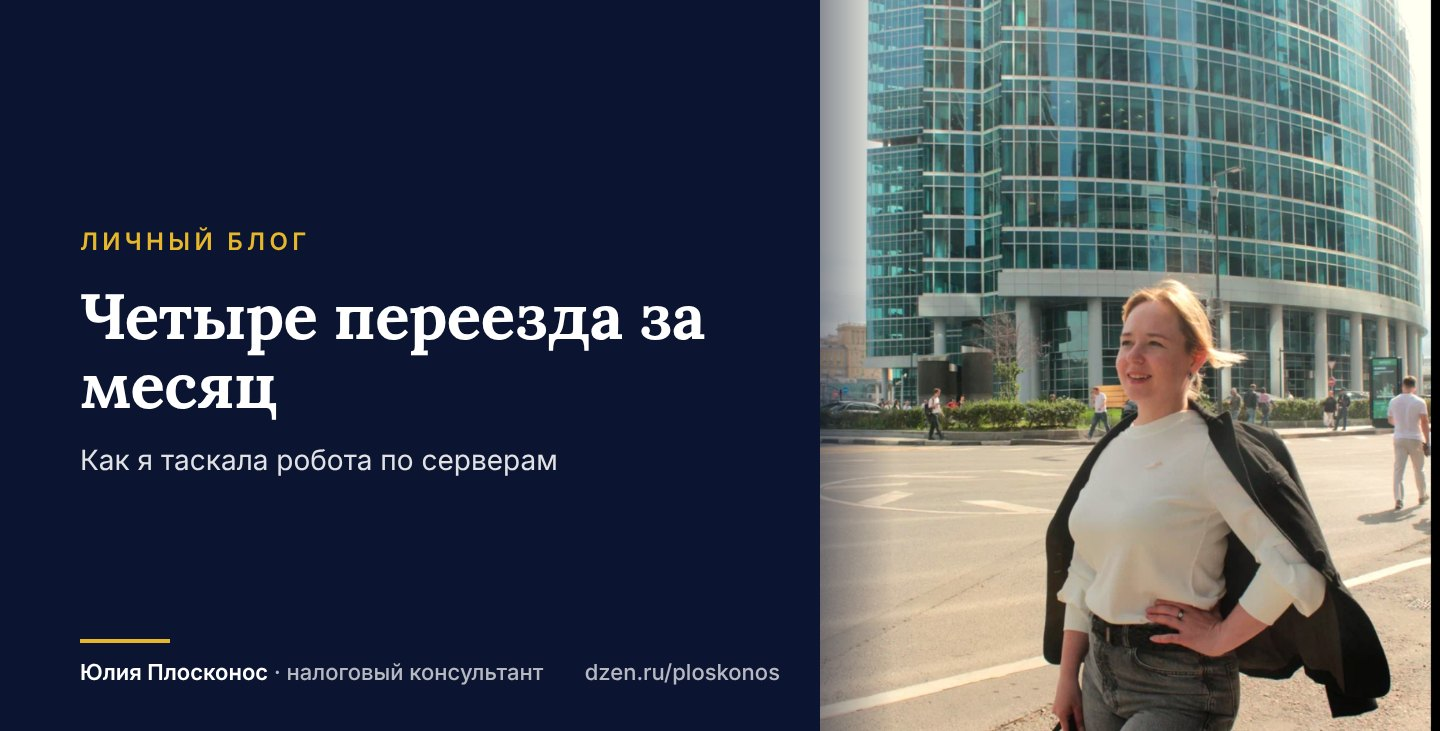
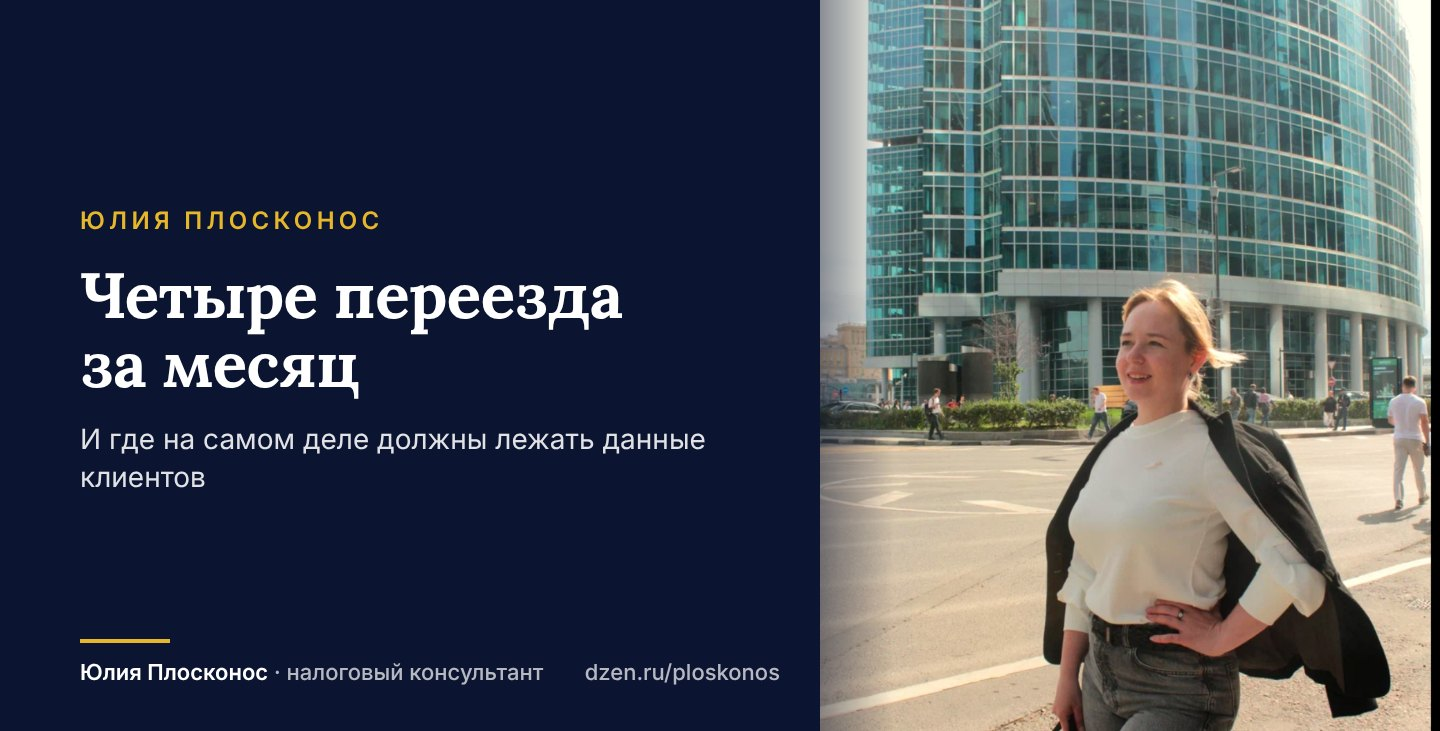
Dzen: №1, 2, 3, 22, 18 — глубже, новые заголовки и обложки
Claude-Session: https://claude.ai/code/session_013Qm2mbBWBWRNQADMDb9gwE

Changed region(s): [[0.0312, 0.2709, 0.5, 0.6621]]

diff --git a/content/dzen/2026-11-lichnoe.md b/content/dzen/2026-11-lichnoe.md
@@ -6,51 +6,94 @@
 
 ---
 
-## 1. Четыре переезда за месяц. Как я таскала робота по серверам
+## 1. Мой робот переехал четыре раза за месяц. И я наконец поняла, где на самом деле должны лежать данные клиентов
 
-В октябре мой робот переехал четыре раза. Амвера, потом Яндекс Облако, потом DigitalOcean, потом Таймвеб в Москве. Если вы думаете, что бухгалтер в такой ситуации спокойно пьёт кофе — нет.
+Амвера. Яндекс Облако. DigitalOcean. Таймвеб в Москве. Четыре сервера за один октябрь. Если вы думаете, что бухгалтер в такой ситуации спокойно пьёт кофе — нет. Я пила кофе нервно.
 
-Сначала всё жило на Амвере. Потом я решила, что пора по-взрослому: разделить рабочую и тестовую версии, поднять всё в Яндекс Облаке. Поднять не получилось — облако легло, доступ пропал. Временно уехали на DigitalOcean. Работало. Но это зарубежный сервер, а у меня в голове всё время сидел вопрос: где лежат данные и что я скажу клиенту, если он спросит.
+Начиналось всё прилично. Робот жил на Амвере, работал, никого не трогал. Потом я решила: пора по-взрослому. Разделить рабочую и тестовую версии, чтобы эксперименты не ломали то, чем уже пользуются. Переезжаем в Яндекс Облако.
 
-Плюс VPN. Робот, который работает только через VPN, — это не робот для бухгалтерии, это квест.
+Переехать не получилось. Облако легло, доступ пропал, а у меня в голове одна мысль: «А если бы там уже были клиенты?»
+
+Временно уехали на DigitalOcean. Работало. Но это зарубежный сервер, и каждый раз, когда я открывала панель, я думала: что я скажу клиенту, если он спросит, где лежат его данные? «Где-то в Европе, наверное»? Для бухгалтера это не ответ.
+
+Плюс VPN. Робот, который работает только через VPN, — это не робот для бухгалтерии. Это квест для очень терпеливых.
 
 Итог — Таймвеб, Москва. Без VPN, обновления сами приходят с GitHub, копия кода всегда под рукой.
 
-Что я из этого вынесла:
-- облако — не «где дешевле», а «где спокойнее отвечать на вопрос клиента»;
-- переезд — это не про перенос файлов, а про то, чтобы ничего не потерять: ни данные, ни историю, ни нервы;
-- рабочую версию не трогать, пока тестовая не прошла весь цикл. Это правило я теперь повторяю как мантру.
+Что я вынесла из этого месяца — и это пригодится не только тем, кто пишет роботов:
 
-Робот помучился со мной, я — с ним. Пока ничья.
+1. Облако выбирают не по принципу «где дешевле», а по принципу «где спокойнее отвечать на вопрос клиента». Это касается и вашей 1С: вы знаете, где физически лежит ваша база?
 
+2. Переезд — это не перенос файлов. Это проверка, что ничего не потерялось: ни данные, ни история, ни настройки. Как при смене бухгалтера: передать базу — полдела, важно передать то, что в голове.
+
+3. Рабочую версию не трогать, пока тестовая не прошла весь цикл. Я теперь повторяю это как мантру. В бухгалтерии то же самое: сначала проверили на копии базы, потом провели в рабочей.
+
+Робот помучился со мной, я — с ним. Пока ничья. Но переезжать я больше не собираюсь.
+
+А вы знаете, где хранится база 1С вашей компании? Честно?
+
+Подписывайтесь — здесь я пишу о работе, о роботе и о том, как вставать, когда всё падает.
 ---
 
-## 2. Зачем бухгалтеру курсы программирования 1С
+## 2. Бухгалтер, который пишет код. Зачем я пошла учиться программированию 1С
 
-Я пошла учиться программированию в 1С. Да, сама. Да, при том что у меня бухгалтерская практика, клиенты и робот, который требует внимания каждый день.
+Да, сама. Да, при том что у меня бухгалтерская практика, клиенты и робот, который требует внимания каждый день. И нет, я не собираюсь менять профессию.
 
 Меня спрашивают: зачем? Есть же программисты.
 
-Потому что я устала переводить с бухгалтерского на программистский. Когда я говорю «аванс без счёта-фактуры», программист слышит «какая-то запись в таблице». Когда я говорю «перепроведи доп. расходы», он спрашивает «а это что?». И каждый такой разговор — потерянный день.
+Есть. И я с ними работаю. Но я устала переводить с бухгалтерского на программистский.
 
-Я не собираюсь становиться разработчиком. Я хочу понимать, что возможно, а что нет, и говорить с кодом на одном языке. Расширение для 1С, которое сейчас делаем для робота, — прямое следствие этих уроков.
+Когда я говорю «аванс без счёта-фактуры», программист слышит «какая-то запись в таблице». Когда я говорю «перепроведи доп. расходы», он спрашивает «а это что?». А когда он говорит «тут регистр накопления не так заполняется», уже я киваю с умным видом и ничего не понимаю.
 
-И ещё одно. Учиться, когда ты уже «эксперт», — отличная прививка от самоуверенности. На каждом занятии я снова новичок. Это полезно.
+Каждый такой разговор — потерянный день. Иногда неделя.
 
+Вот что изменилось после первых занятий:
+
+1. Я начала понимать, почему 1С делает то, что делает. Почему документ провёлся, а в отчёте пусто. Почему закрытие месяца ругается на то, чего «вроде нет». За каждой такой загадкой стоит вполне конкретная логика.
+
+2. Я стала ставить задачи иначе. Не «сделайте, чтобы работало», а «вот документ, вот регистр, вот что должно получиться». Задача, понятная программисту с первого раза, — это экономия денег.
+
+3. Я поняла, что возможно, а что нет. Часть моих идей для робота оказалась простой. Часть — невозможной. А часть — возможной, но совсем не так, как я думала.
+
+Расширение для 1С, которое мы сейчас делаем для робота, — прямое следствие этих уроков.
+
+И ещё одно. Учиться, когда ты уже «эксперт», — отличная прививка от самоуверенности. На каждом занятии я снова новичок. Это неприятно. И очень полезно.
+
+Совет бухгалтерам: не обязательно идти на курсы программирования. Но хотя бы один раз откройте «Отчёт по движениям документа» и посмотрите, куда на самом деле записывает ваша проводка. Мир станет понятнее.
+
+А вы когда в последний раз чувствовали себя новичком?
+
+Подписывайтесь — здесь я пишу о работе, учёбе и о том, как не бояться начинать заново.
 ---
 
-## 3. Почему я не отдаю базы клиентов нейросетям. Даже когда так проще
+## 3. Загрузить базу клиента в нейросеть — всё равно что оставить ключи от его сейфа в такси
 
-Самый простой путь сейчас — загрузить базу в нейросеть и спросить: «Найди ошибки». Многие так и делают. Я — нет.
+Самый простой путь сейчас — выгрузить базу 1С в нейросеть и спросить: «Найди ошибки». Многие так и делают. Быстро, удобно, впечатляет. Я так не делаю. И мои клиенты, думаю, этому рады.
 
-Бухгалтерская база — это не цифры. Это зарплаты людей, долги, контрагенты, планы. Клиент доверил мне это, потому что я бухгалтер, а не потому что я отправлю всё «умной машине» неизвестно куда.
+Давайте честно: что лежит в бухгалтерской базе?
 
-Поэтому в моём роботе правило простое: клиентские базы и документы внешним моделям не передаются. Проверки идут по правилам, которые я сама прописала по 1С:ИТС, НК и ПБУ. Нейросеть может помочь там, где нет клиентских данных.
+Зарплаты людей — с фамилиями. Долги и кредиторы. Контрагенты и условия сделок. Банковские счета. Цены, по которым вы закупаете, и цены, по которым продаёте. По сути — вся жизнь бизнеса.
+
+Клиент доверил мне это, потому что я бухгалтер. А не потому, что я отправлю всё «умной машине» неизвестно куда, на сервер неизвестно в какой стране, с правилами хранения, которые никто не читал.
+
+Поэтому в моём роботе правило простое: клиентские базы и документы внешним моделям не передаются.
+
+Как же он тогда проверяет? По правилам. Я сама прописала проверки по 1С:ИТС, Налоговому кодексу и ПБУ: что должно сходиться с чем, где обычно ошибаются, на что смотрит налоговая. Это скучнее, чем «спросить у ИИ». Зато каждое замечание робота можно объяснить — со ссылкой на норму.
+
+А нейросеть я использую там, где нет клиентских данных: тексты, структура, идеи, проверка формулировок.
 
 Да, так дольше. Да, так дороже. Но ответственность — это когда ты можешь посмотреть клиенту в глаза и сказать, где его данные. А не «ну, где-то в облаке, наверное».
 
+Три вопроса, которые стоит задать своему бухгалтеру или сервису, прямо сейчас:
+1. Вы загружаете мою базу или документы в нейросети?
+2. Если да — в какие и где они хранятся?
+3. Кто ещё имеет доступ к моей базе?
+
+Если на какой-то вопрос вам отвечают «не переживайте» — переживайте.
+
 Как вы думаете: бухгалтер должен спрашивать разрешения, прежде чем использовать ИИ на вашей базе?
 
+ПлюсРобот проверяет учёт без передачи данных во внешние нейросети → robot.vpluse.pro
 ---
 
 ## 4. ИИ заберёт у бухгалтера половину работы. И это хорошая новость
@@ -286,18 +329,34 @@
 
 ---
 
-## 18. Я руковожу бизнесом, но управлению меня никто не учил. Исправляю
+## 18. Я руковожу бизнесом, но управлению меня никто не учил. Иду исправлять это в РАНХиГС
 
-Я руководитель. Небольшой команды, своего бизнеса, своего проекта — но руководитель. И в какой-то момент поняла: я отлично знаю бухгалтерию и налоги, но управлению меня никто специально не учил. Всё на опыте, на шишках, на интуиции.
+Я руководитель. Небольшой команды, своего бизнеса, своего проекта — но руководитель. И в какой-то момент честно призналась себе: бухгалтерию и налоги я знаю глубоко. А управлять меня никто специально не учил. Всё на опыте, на шишках, на интуиции.
+
+Интуиция — штука хорошая. Пока бизнес маленький. Потом она начинает подводить.
+
+Знакомо?
+— Вы единственный человек, который знает, как всё устроено.
+— Без вас ничего не решается, даже мелочи.
+— Вы уходите в отпуск — и в отпуске работаете.
+— Сотрудники делают «не так», и вам проще переделать самой.
+
+Это не про плохую команду. Это про то, что работа выстроена вокруг одного человека. И этот человек — вы.
 
 Поэтому я иду на Президентскую программу подготовки управленческих кадров в РАНХиГС. Специализация — топ-менеджмент.
 
-Зачем бухгалтеру и налоговому консультанту это нужно? Потому что ВПЛЮСЕ и ПлюсРобот растут, и мне всё чаще приходится решать не «как провести операцию», а «как выстроить работу, чтобы всё крутилось без меня».
+Зачем это бухгалтеру и налоговому консультанту? Потому что ВПЛЮСЕ и ПлюсРобот растут, и мне всё чаще приходится решать не «как провести операцию», а «как выстроить работу, чтобы всё крутилось без меня». Это совсем другой навык. И его, как и 1С, нужно учить.
 
-Буду честно делиться тем, что узнаю: что работает в маленьком бизнесе, а что — только в учебниках. Думаю, предпринимателям это пригодится не меньше, чем мне.
+Что я хочу оттуда вынести:
+1. Как делегировать так, чтобы потом не переделывать.
+2. Как строить процессы, которые не зависят от одного человека.
+3. Как принимать решения, когда данных мало, а времени ещё меньше.
 
-А вы учитесь чему-то сейчас? Или уже решили, что «поздно»?
+Буду честно делиться тем, что узнаю: что работает в маленьком бизнесе, а что — только в учебниках. Без пафоса и умных слов. Думаю, предпринимателям это пригодится не меньше, чем мне.
 
+А вы учитесь чему-то сейчас? Или уже решили, что «поздно»? Мне кажется, поздно — это когда перестаёшь задавать вопросы.
+
+Подписывайтесь — буду рассказывать про учёбу и управление изнутри.
 ---
 
 ## 19. «Вроде всё нормально, но тревожно». Если это про вас — читайте
@@ -345,22 +404,39 @@
 
 ---
 
-## 22. Топ-5 отчётов в 1С, которые я открываю перед сдачей НДС. Без них — лотерея
+## 22. Сдаёте НДС без этих пяти отчётов в 1С? Это лотерея, а не декларация
 
-Сдавать НДС без проверки — это как переходить дорогу с закрытыми глазами. Иногда везёт. Иногда — требование. Вот мои пять отчётов в 1С:Бухгалтерии.
+Сдавать НДС без проверки — как переходить дорогу с закрытыми глазами. Иногда везёт. Иногда приходит требование о пояснениях. А иногда — уточнёнка, доплата и пени.
 
-1. Экспресс-проверка ведения учёта. Отчёты → Анализ учёта. 1С сама пробегает базу и показывает типовые ошибки. Пять минут — и уже видно, где горит.
+Я перед каждой сдачей открываю в 1С:Бухгалтерии одни и те же пять отчётов. Это занимает меньше часа и экономит недели переписки с налоговой. Сохраните себе.
 
-2. Анализ учёта по НДС. Там же. Показывает, откуда взялась каждая сумма в декларации: начислено, восстановлено, к вычету. Если цифра непонятна — здесь видно почему.
+1. Экспресс-проверка ведения учёта
+Где: Отчёты → Анализ учёта → Экспресс-проверка.
+Что делает: 1С сама пробегает базу и показывает типовые ошибки — незаполненные реквизиты, нарушения последовательности, проблемы с НДС.
+На что смотрю: на красные пункты по разделу НДС. Пять минут — и уже видно, где горит.
 
-3. ОСВ по счёту 19. Всё, что висит на 19, — это НДС, который вы не приняли к вычету. Иногда там лежат деньги, про которые все забыли.
+2. Анализ учёта по НДС
+Где: там же, Отчёты → Анализ учёта.
+Что делает: показывает схему — откуда взялась каждая сумма в декларации: начислено, восстановлено, к вычету. По каждой цифре можно провалиться до документа.
+На что смотрю: если итог «к уплате» меня удивляет — здесь видно почему.
 
-4. ОСВ по 68.02 против декларации. Сальдо должно биться с итогом к уплате. Не бьётся — ищите сейчас, а не после камералки.
+3. ОСВ по счёту 19
+Что делает: показывает НДС, который пришёл от поставщиков, но не принят к вычету.
+На что смотрю: на старые остатки. Иногда там лежат деньги, про которые все забыли: вычет не заявили, а три года для него тикают.
 
-5. Сверка с контрагентами. Расхождение с поставщиком по счёту-фактуре — главный повод для требования о пояснениях.
+4. ОСВ по 68.02 против декларации
+Что делает: показывает расчёты с бюджетом по НДС.
+На что смотрю: оборот за квартал должен биться с итогом декларации. Не бьётся — ищите сейчас, а не после камеральной проверки.
 
-Сохраните, чтобы не искать в конце квартала. А какой отчёт открываете первым вы?
+5. Сверка с контрагентами
+Что делает: сравнивает ваши счета-фактуры с данными поставщиков и покупателей.
+На что смотрю: на расхождения по суммам и датам. Именно они чаще всего превращаются в требование о пояснениях: налоговая видит обе стороны сделки и сразу замечает, если цифры не совпали.
 
+Бонус: после всех проверок сделайте копию базы. Если после сдачи что-то придётся исправлять, вы будете точно знать, с чем сдавали.
+
+А какой отчёт открываете первым вы? Делитесь — соберу вашу подборку в отдельный пост.
+
+Нет времени проверять самим? Сделаю экспресс-проверку вашего учёта перед сдачей НДС → vpluse.pro
 ---
 
 ## 23. Топ-5 причин, почему у вас не закрывается месяц в 1С

diff --git a/content/dzen/FUNCTIONAL-LOG.md b/content/dzen/FUNCTIONAL-LOG.md
@@ -89,7 +89,7 @@
 - 03.11.2026 — Опубликованы: №9, №1, №2, №3, №16. №16, 22, 18 — с новой подписью. В №9, 1, 2, 3 старая подпись — заменить.
 - 03.11.2026 — Правило: фото не повторять (раз в 50 постов). Портретов мало — нужны новые (Диск, VK, TG).
 - 03.11.2026 — ОШИБКА в №16 (про блокировку счёта за неотправленную квитанцию — норма отменена с 05.02.2025): пост переписан и обложка заменена через 20 минут после публикации.
-- 03.11.2026 — Юлия: писать больше и глубже.
+- 03.11.2026 — Юлия: писать больше и глубже. Посты №1, 2, 3, 22, 18 переписаны глубже (редактированием, без удаления), новые обложки и подпись.
 - 03.11.2026 — Отправлено на аудит GPT: «Аудит 05 — Дзен-блог».
 
 ## Фото → пост (для контроля повторов)
@@ -97,7 +97,7 @@
 |---|---|
 | 1 | Москва-Сити, идёт (walk) |
 | 2 | Москва-Сити, портрет (look) |
-| 3, 22 (и 16 до правки) | портрет в синем пиджаке (founder-hd) — больше не брать до ~70-го поста |
+| 3 | портрет в синем пиджаке (founder-hd) — больше не брать до ~55-го поста |
 | 16 | dvorec-gostinaya |
 | 9 | sit |
 | 18 | yulia-pled-kafe |
@@ -117,6 +117,7 @@
 | 20 | robot-laptop |
 | 21 | polet-den |
 | 23 | dvorec-kolonny |
+| 22 | dvorec-gorka |
 | 24 | petergof-dvorec-proekciya-2 |
 | 25 | petergof-oranzhereya |
 | 26 | dvorec-portrety |
